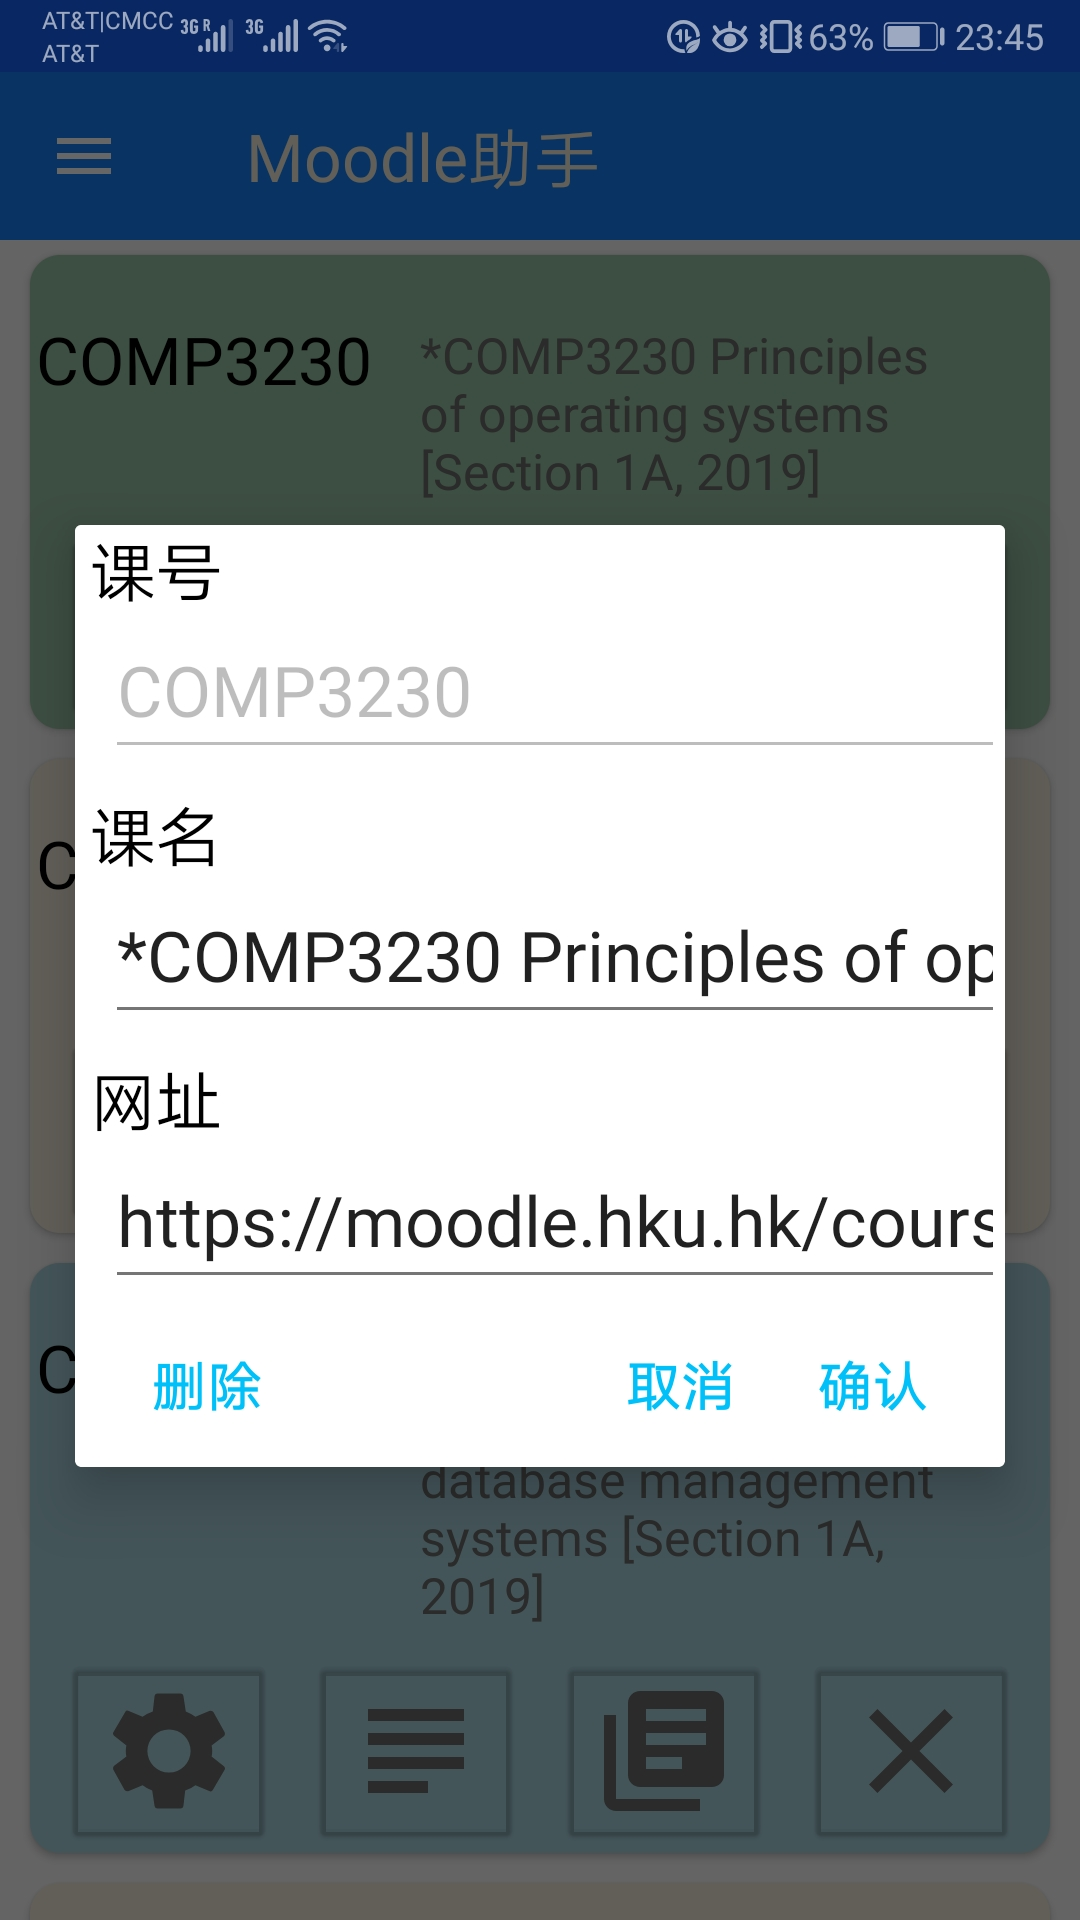
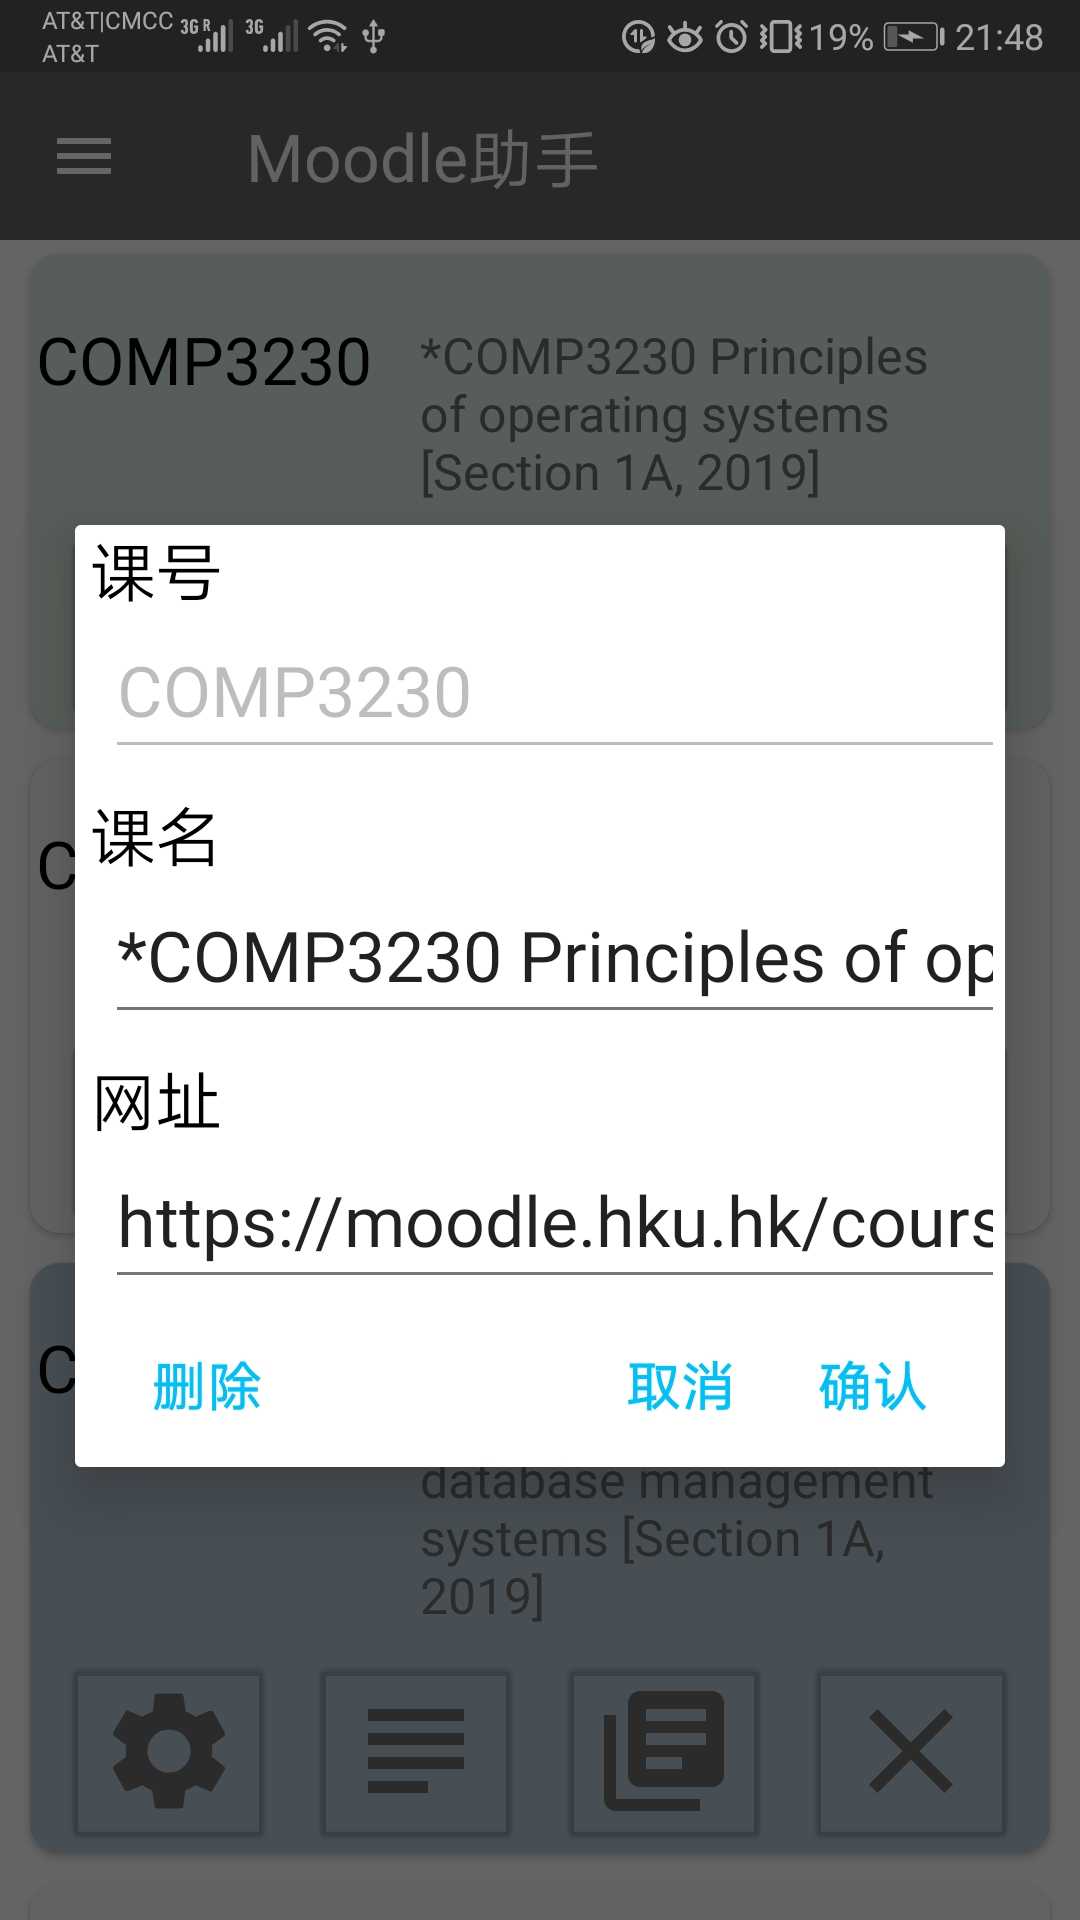
Change the color

Changed region(s): [[0.0, 0.0, 1.0, 0.375]]

diff --git a/README.md b/README.md
@@ -27,6 +27,7 @@ The dialogs:
 
 <img src=".idea/img/1.jpg" alt="Loading dialog" width="20%"></img>
 <img src=".idea/img/5.jpg" alt="Editing dialog" width="20%"></img>
+<img src=".idea/img/6.jpg" alt="Editing dialog" width="20%"></img>
 
 ## Basic Functionalities: 
 
